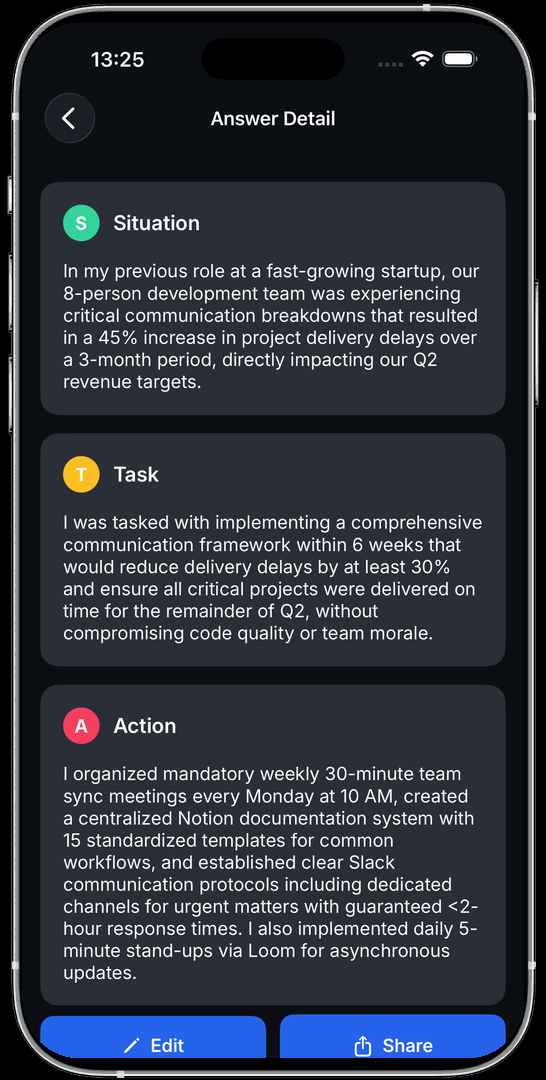
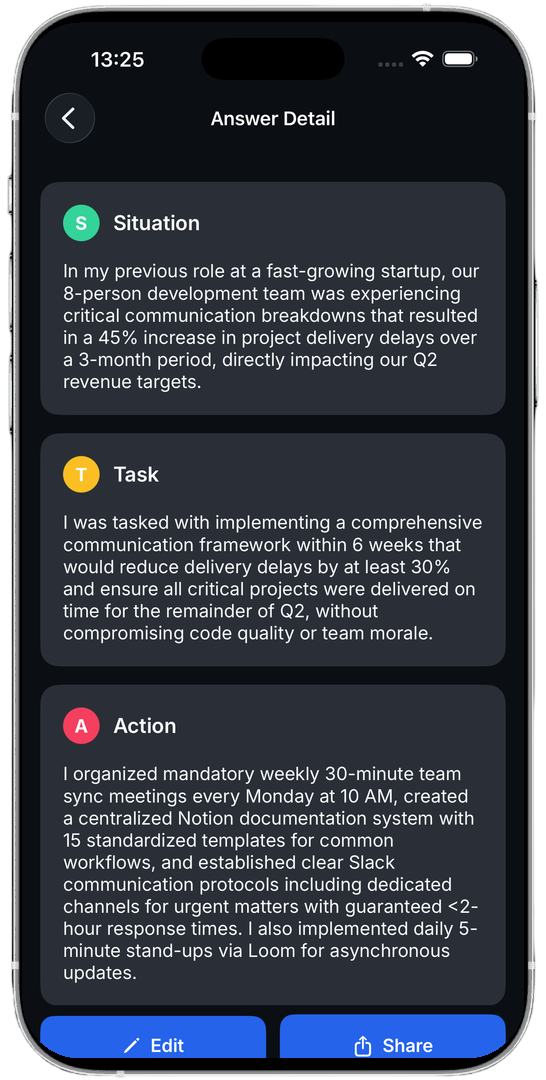
fix: improve mobile layout for Advanced Capabilities section
Adjusted CSS and component classes to enhance the appearance and spacing of the Advanced Capabilities section on mobile devices. Updated mockup display and gradient overlays for better visibility. Also updated answer detail images for English and Portuguese.

Changed region(s): [[0.0, 0.0, 1.0, 1.0]]

diff --git a/app/globals.css b/app/globals.css
@@ -594,9 +594,10 @@ body {
      Centers title, subtitle, capabilities list, and download buttons
      ============================================ */
 
-  /* Reduce top padding to fix double spacing between Features and this section */
+  /* Reduce padding to fix spacing on mobile */
   #advanced-capabilities {
     padding-top: 40px !important;
+    padding-bottom: 40px !important;
   }
 
   /* Center the left content column */
@@ -627,6 +628,40 @@ body {
   /* Make download buttons full width and center their content */
   #advanced-capabilities .flex.flex-col.md\:flex-row > a {
     justify-content: center !important;
+  }
+
+  /* Show phone mockup on mobile */
+  .advanced-capabilities-mockup {
+    display: block !important;
+    visibility: visible !important;
+    opacity: 1 !important;
+    width: 100% !important;
+    max-width: none !important;
+    height: 420px !important;
+    margin: 0 !important;
+    flex: none !important;
+  }
+
+  /* Adjust phone container inside mockup for mobile */
+  .advanced-capabilities-mockup > div:last-child {
+    width: 310px !important;
+    height: 613px !important;
+    top: 24px !important;
+  }
+
+  /* Reposition gradient overlays to be visible in the clipped area */
+  .advanced-capabilities-mockup > div:last-child > div:nth-child(2) {
+    bottom: auto !important;
+    top: 150px !important;
+    height: 300px !important;
+    z-index: 10 !important;
+  }
+
+  .advanced-capabilities-mockup > div:last-child > div:nth-child(3) {
+    bottom: auto !important;
+    top: 250px !important;
+    height: 200px !important;
+    z-index: 10 !important;
   }
 }
 

diff --git a/components/AdvancedCapabilities.tsx b/components/AdvancedCapabilities.tsx
@@ -283,7 +283,7 @@ export default function AdvancedCapabilities() {
 
           {/* Right mockup */}
           <div
-            className="w-full md:w-auto max-w-[300px] md:max-w-none mx-auto md:mx-0"
+            className="advanced-capabilities-mockup w-full md:w-auto max-w-[300px] md:max-w-none mx-auto md:mx-0"
             style={{
               position: 'relative',
               flex: '1 0 0px',
